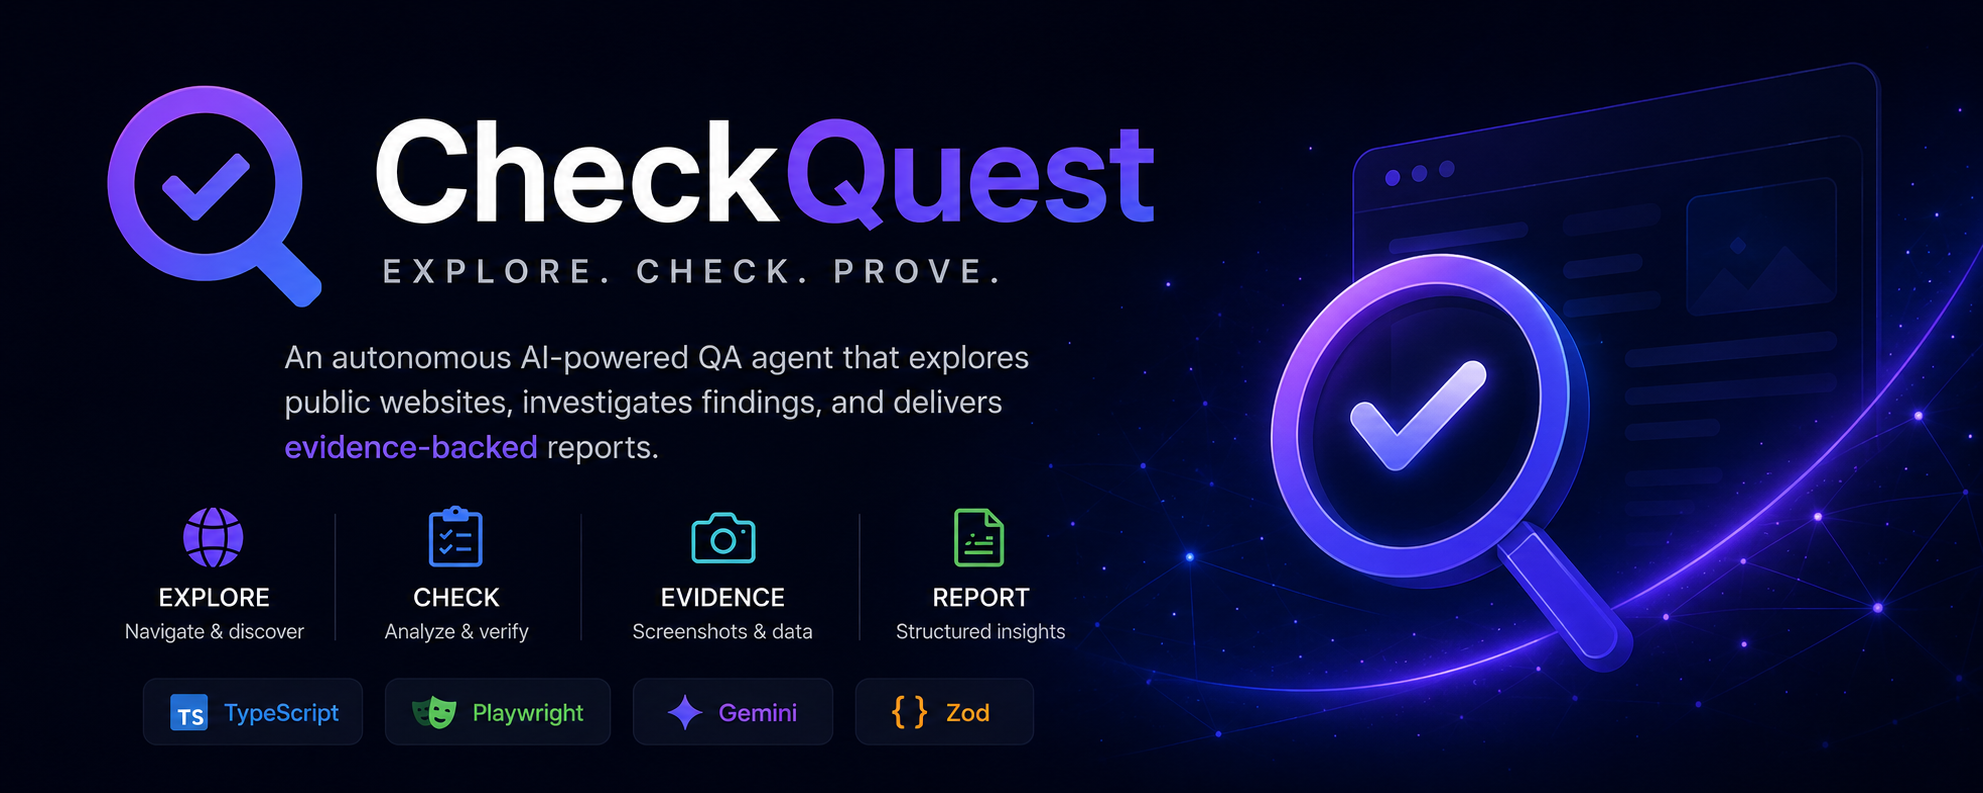
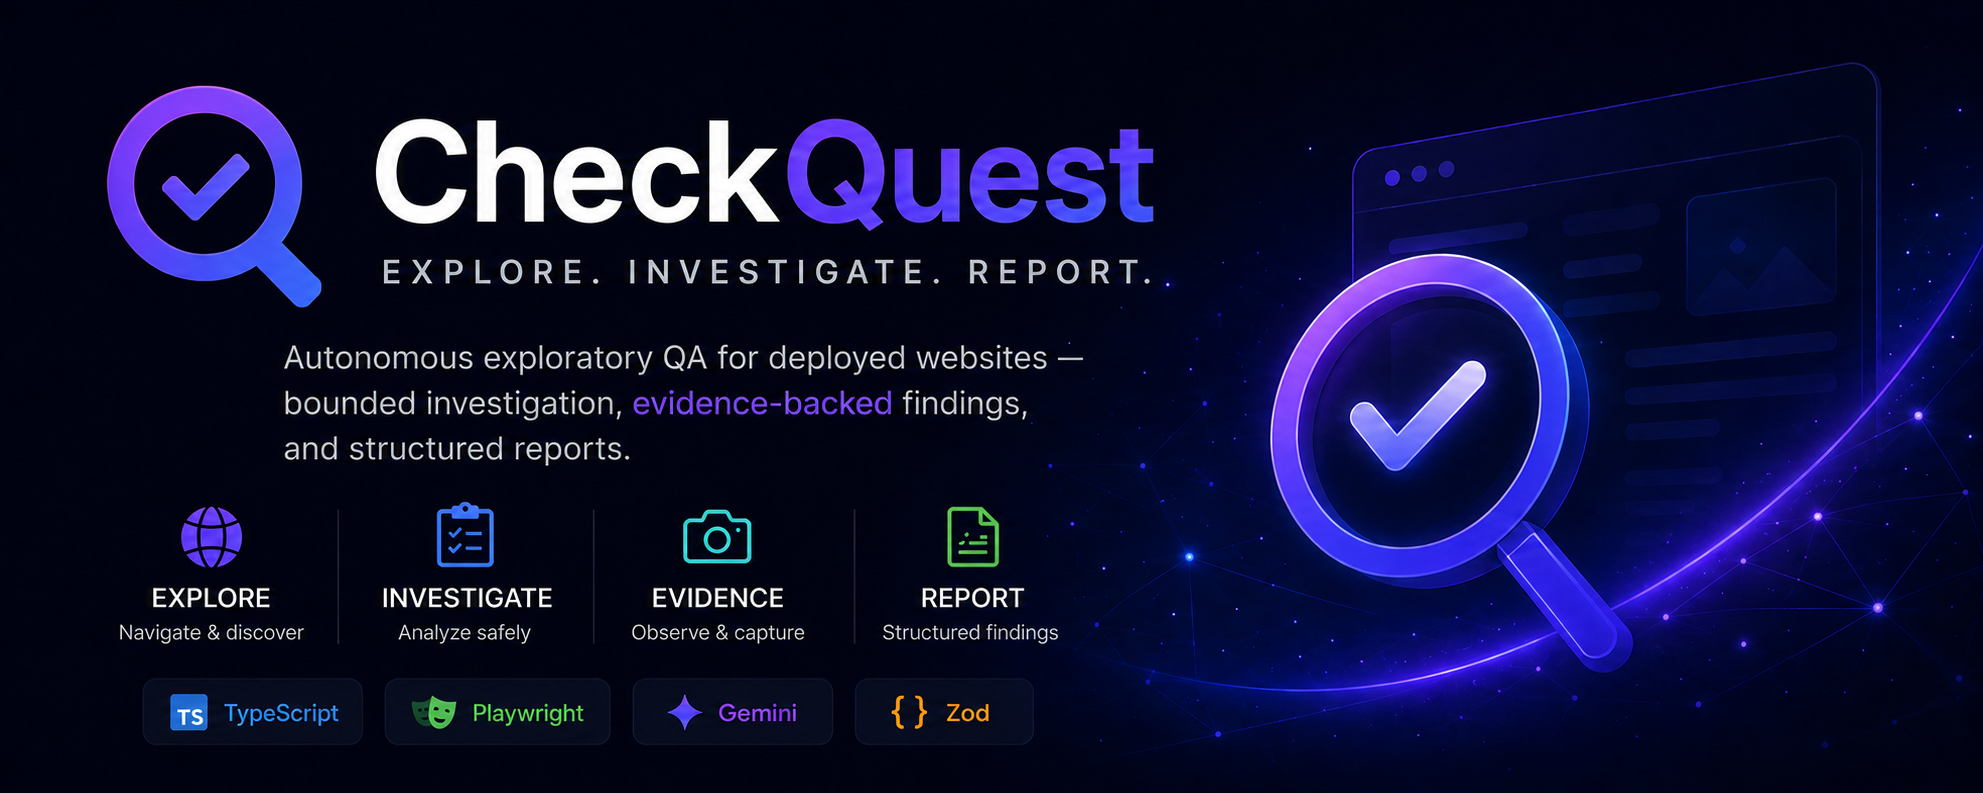
feat: complete release-quality CheckQuest

diff --git a/README.md b/README.md
@@ -1,5 +1,5 @@
 <p align="center">
-  <img src="assets/branding/checkquest-banner.png" alt="CheckQuest — Explore. Check. Prove." width="100%">
+  <img src="assets/branding/checkquest-banner.png" alt="CheckQuest — Explore. Investigate. Report." width="100%">
 </p>
 
 # CheckQuest 🧭
@@ -10,9 +10,9 @@
 ![Gemini](https://img.shields.io/badge/Gemini-BYOK-purple)
 ![Status](https://img.shields.io/badge/status-experimental-orange)
 
-**Explore. Check. Prove.**
+**Explore. Investigate. Report.**
 
-CheckQuest is an exploratory QA agent for websites. Give it a URL instead of a predefined test suite: it inspects the site, decides where it is worth looking next, flags suspicious issues, investigates only when it has a bounded evidence-gathering action, and produces a structured report of what it found.
+CheckQuest is an exploratory QA agent for websites. Give it **any authorized HTTP(S) URL** instead of a predefined test suite: it inspects the site, decides where it is worth looking next, flags suspicious issues, investigates only when it has a bounded evidence-gathering action, and produces a structured report of what it found. No site-specific profile is required for normal use.
 
 > **AI decides what may be worth investigating. Deterministic code decides what the browser is actually allowed to do.**
 
@@ -50,7 +50,7 @@ That makes CheckQuest a complement to existing QA automation rather than a claim
 ## 🧠 How it works
 
 ```text
-URL / site profile
+Arbitrary URL / optional saved site profile
         ↓
 Inspect page 1
         ↓
@@ -167,13 +167,15 @@ export GEMINI_API_KEY="replace-with-your-key"
 
 ### 4. Run it
 
-For a small first run against a site you are authorized to test:
+The normal path is to supply the website you want CheckQuest to inspect directly. No named profile is required:
 
 ```bash
 npm start -- https://www.example.com/ --pages 1 --navigation-steps 1 --steps-per-page 0
 ```
 
-Or run the built-in `aidoc` profile with its configured defaults:
+CheckQuest builds a conservative runtime profile automatically for the supplied hostname.
+
+The repository also includes one **optional reference profile**, `aidoc`, because Aidoc was the project's original development and external regression target. It is not the only supported site and is not required for arbitrary-URL runs:
 
 ```bash
 npm start
@@ -206,9 +208,11 @@ npm run agent:explore -- https://www.example.com/ --pages 5 --navigation-steps 7
 
 Set `--steps-per-page 0` to analyze pages without autonomous investigation.
 
-Current defaults are **5 / 6 / 3** for the configured `aidoc` profile and **3 / 4 / 3** for an arbitrary URL.
+For the normal arbitrary-URL path, current defaults are **3 / 4 / 3**. Arbitrary URLs use a conservative runtime profile scoped to the exact supplied hostname.
 
-Arbitrary URLs use a conservative runtime profile scoped to the exact supplied hostname. For reusable profiles, host policy, `SiteConfig`, model overrides, and configuration errors, see **[Configuration](docs/CONFIGURATION.md)**.
+The optional built-in `aidoc` reference profile uses **5 / 6 / 3** because it doubles as a development/regression fixture. Reusable named profiles are an advanced convenience for sites that need persistent configuration; they are not required to run CheckQuest against other websites.
+
+For reusable profiles, host policy, `SiteConfig`, model overrides, and configuration errors, see **[Configuration](docs/CONFIGURATION.md)**.
 
 ## 📄 What you get
 
@@ -258,7 +262,7 @@ rules, and deliberately non-versioned source API are defined in
 | `GEMINI_API_KEY is required` | Set `GEMINI_API_KEY` in the same shell that starts CheckQuest. `GOOGLE_API_KEY` is not a fallback. |
 | `Unable to launch Chromium` | Run `npm run setup:browser`. On Linux, use `npm run setup:browser:with-deps`. |
 | Chromium reports missing Linux libraries | Install the Playwright system packages with `npm run setup:browser:with-deps`. |
-| `Unknown site configuration` | Use `aidoc` or provide a complete URL beginning with `http://` or `https://`. |
+| `Unknown site configuration` | Provide a complete URL beginning with `http://` or `https://`. The optional built-in `aidoc` name is only a reference profile. |
 | A `MODEL` error occurs after requests begin | Check the Gemini key, optional `GEMINI_MODEL`, network access, quota, and provider availability. |
 | Report persistence fails | Run from a writable checkout and verify access to `agent-results/`. Failed runs do not emit a successful partial report. |
 
@@ -280,7 +284,7 @@ npm run test:browser:ci
 
 `npm run test:browser:ci` runs the mandatory local Chromium acceptance suite against loopback fixtures — no Gemini key and no external Aidoc dependency required.
 
-`npm test` / `npm run test:ui` is the separate **manual external Aidoc acceptance** suite.
+`npm test` / `npm run test:ui` is the project's separate **manual external Aidoc regression acceptance** suite. Aidoc is used there as a stable development/reference target; normal CheckQuest usage is not limited to Aidoc or to preconfigured sites.
 
 ## ⚠ Current boundaries
 
@@ -291,7 +295,7 @@ CheckQuest is still experimental.
 - Safety controls reduce risk; they cannot guarantee zero side effects on arbitrary sites.
 - Passive security is observational, not active vulnerability scanning.
 - Normal exploration currently depends on Gemini.
-- Only one reusable configured site profile ships today.
+- One optional reusable reference profile (`aidoc`) ships today; arbitrary authorized URLs are the normal general-purpose path and do not require a profile.
 - Failed runs do not have a partial-report schema.
 - CheckQuest is not yet packaged as a desktop app, hosted service, or standalone SDK.
 
